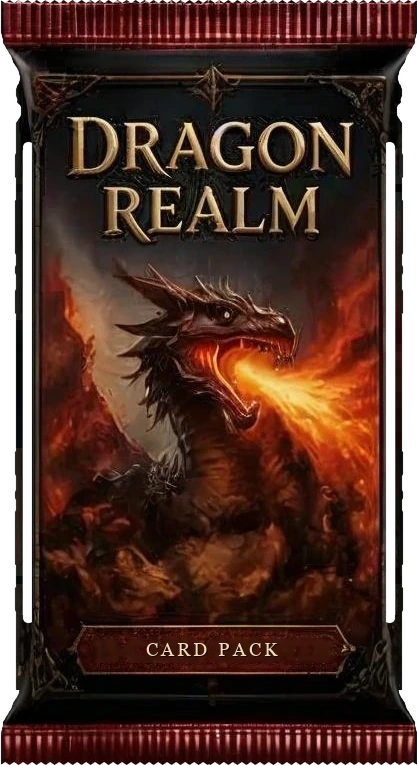
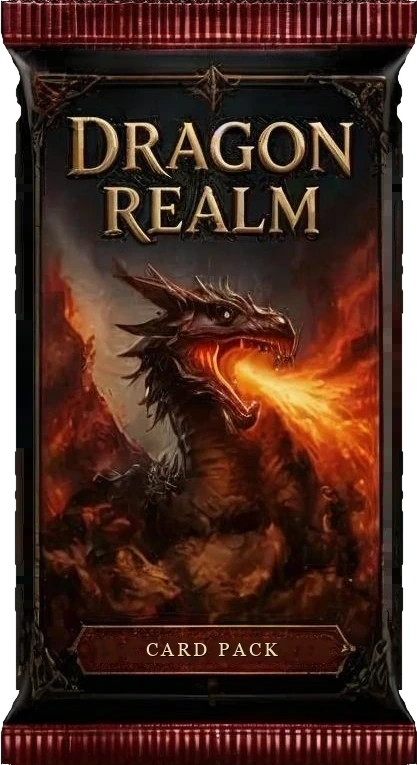
Dragon Realm pack: fill the see-through gaps along both sides

Changed region(s): [[0.9041, 0.1804, 0.9664, 0.8118], [0.0312, 0.1804, 0.0935, 0.8118], [0.0, 0.9922, 0.9976, 1.0]]

diff --git a/src/data/patchNotes.ts b/src/data/patchNotes.ts
@@ -23,7 +23,10 @@ export const PATCH_NOTES: PatchNote[] = [
     date: '2026-10-06',
     title: 'New art for Bubblemaker Qinny',
     summary: 'Bubblemaker Qinny has new card art.',
-    sections: [{ kind: 'improved', items: ['Bubblemaker Qinny has new, sharper card art.'] }],
+    sections: [
+      { kind: 'improved', items: ['Bubblemaker Qinny has new, sharper card art.'] },
+      { kind: 'fixed', items: ['The Dragon Realm pack no longer has see-through gaps along both sides.'] },
+    ],
     commits: [],
   },
   {

diff --git a/src/i18n/cs/data/patchNotes.ts b/src/i18n/cs/data/patchNotes.ts
@@ -4,7 +4,10 @@ const notes: PatchNotesOverlay = {
   '0.26.8': {
     title: 'Nový obrázek pro Bublináře Qinnyho',
     summary: 'Bublinář Qinny má nový obrázek karty.',
-    sections: [['Bublinář Qinny má nový, ostřejší obrázek karty.']],
+    sections: [
+      ['Bublinář Qinny má nový, ostřejší obrázek karty.'],
+      ['Balíček Dragon Realm už nemá průhledné mezery podél obou boků.'],
+    ],
   },
   '0.26.7': {
     title: 'Kompaktní náhled karty na mobilu',

diff --git a/tools/pack_relabel_dragon_realm.py b/tools/pack_relabel_dragon_realm.py
@@ -54,6 +54,14 @@ for ch, cw in zip(label, widths):
     x += cw + spacing
 
 out = Image.merge('RGBA', (*rgb.split(), img.getchannel('A')))
+# 3) Fill holes inside the outline (the dark side rim blended into the background, leaving 18px gaps).
+O = np.asarray(out).copy(); oa = O[:, :, 3]
+for yy in range(oa.shape[0]):
+    xs = np.where(oa[yy] > 128)[0]
+    if len(xs):
+        oa[yy, xs.min() + 2: xs.max() - 1] = 255
+O[:, :, 3] = oa
+out = Image.fromarray(O, 'RGBA')
 out.save(f'{S}/dr_fixed.webp', quality=92, method=6)
 bg = Image.new('RGBA', out.size, (255, 0, 255, 255)); bg.alpha_composite(out)
 bg.convert('RGB').save(f'{S}/dr_fixed_mag.png')
